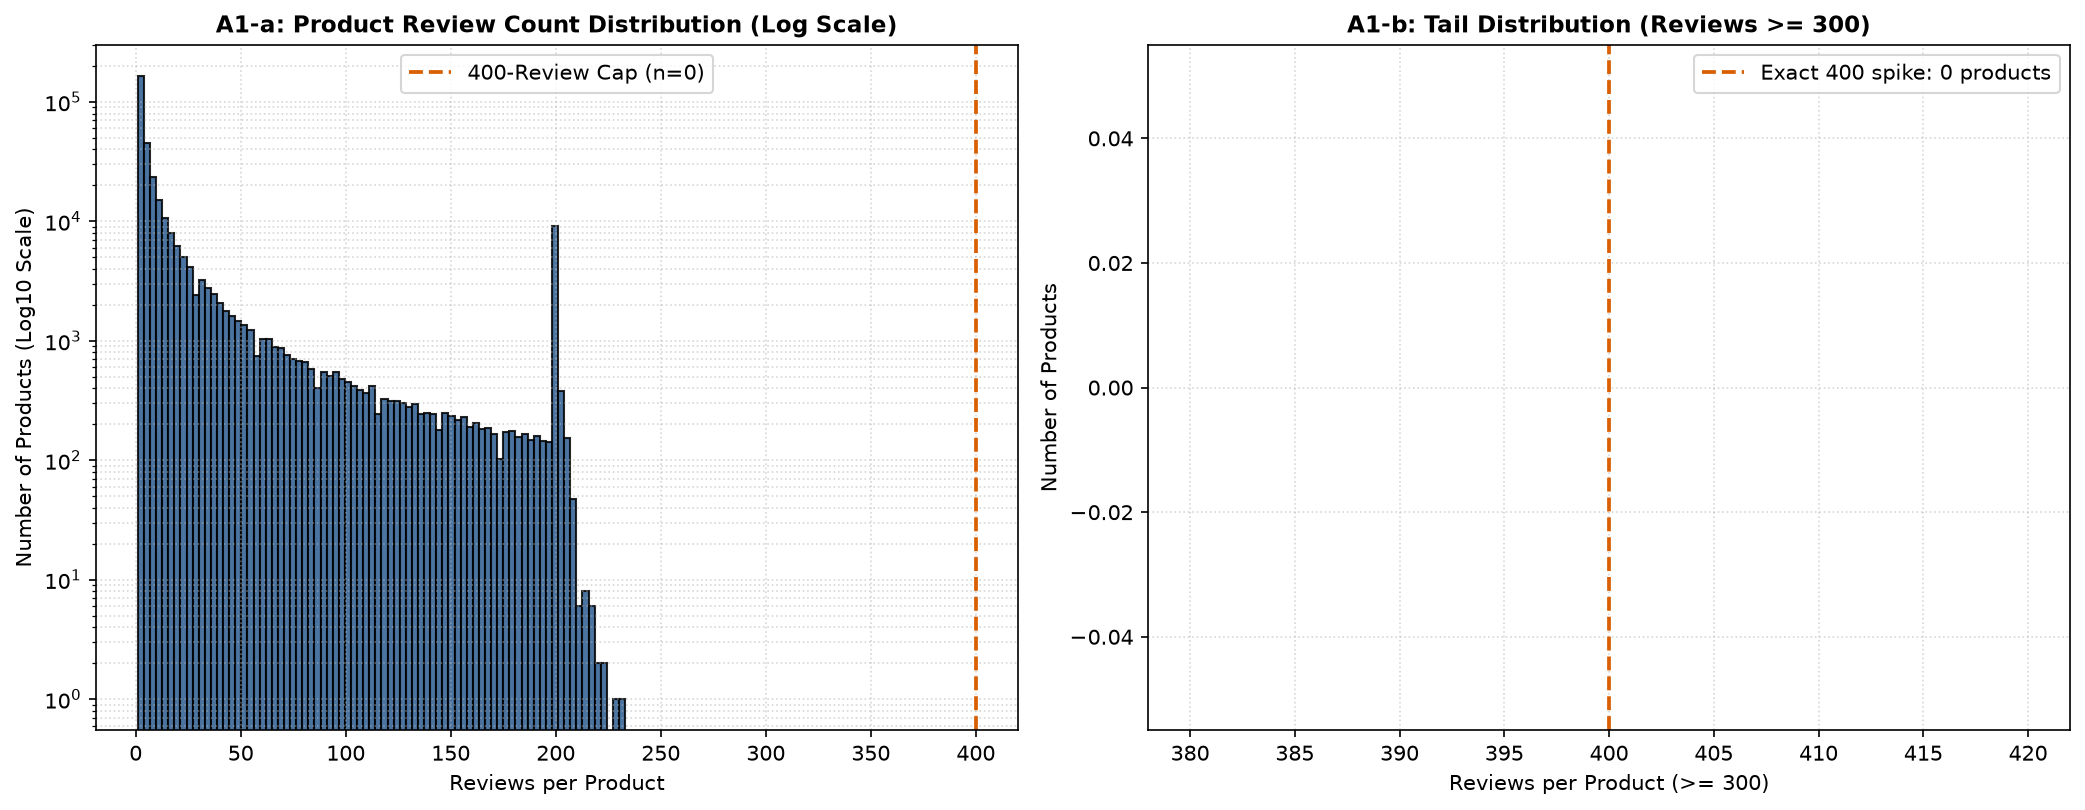
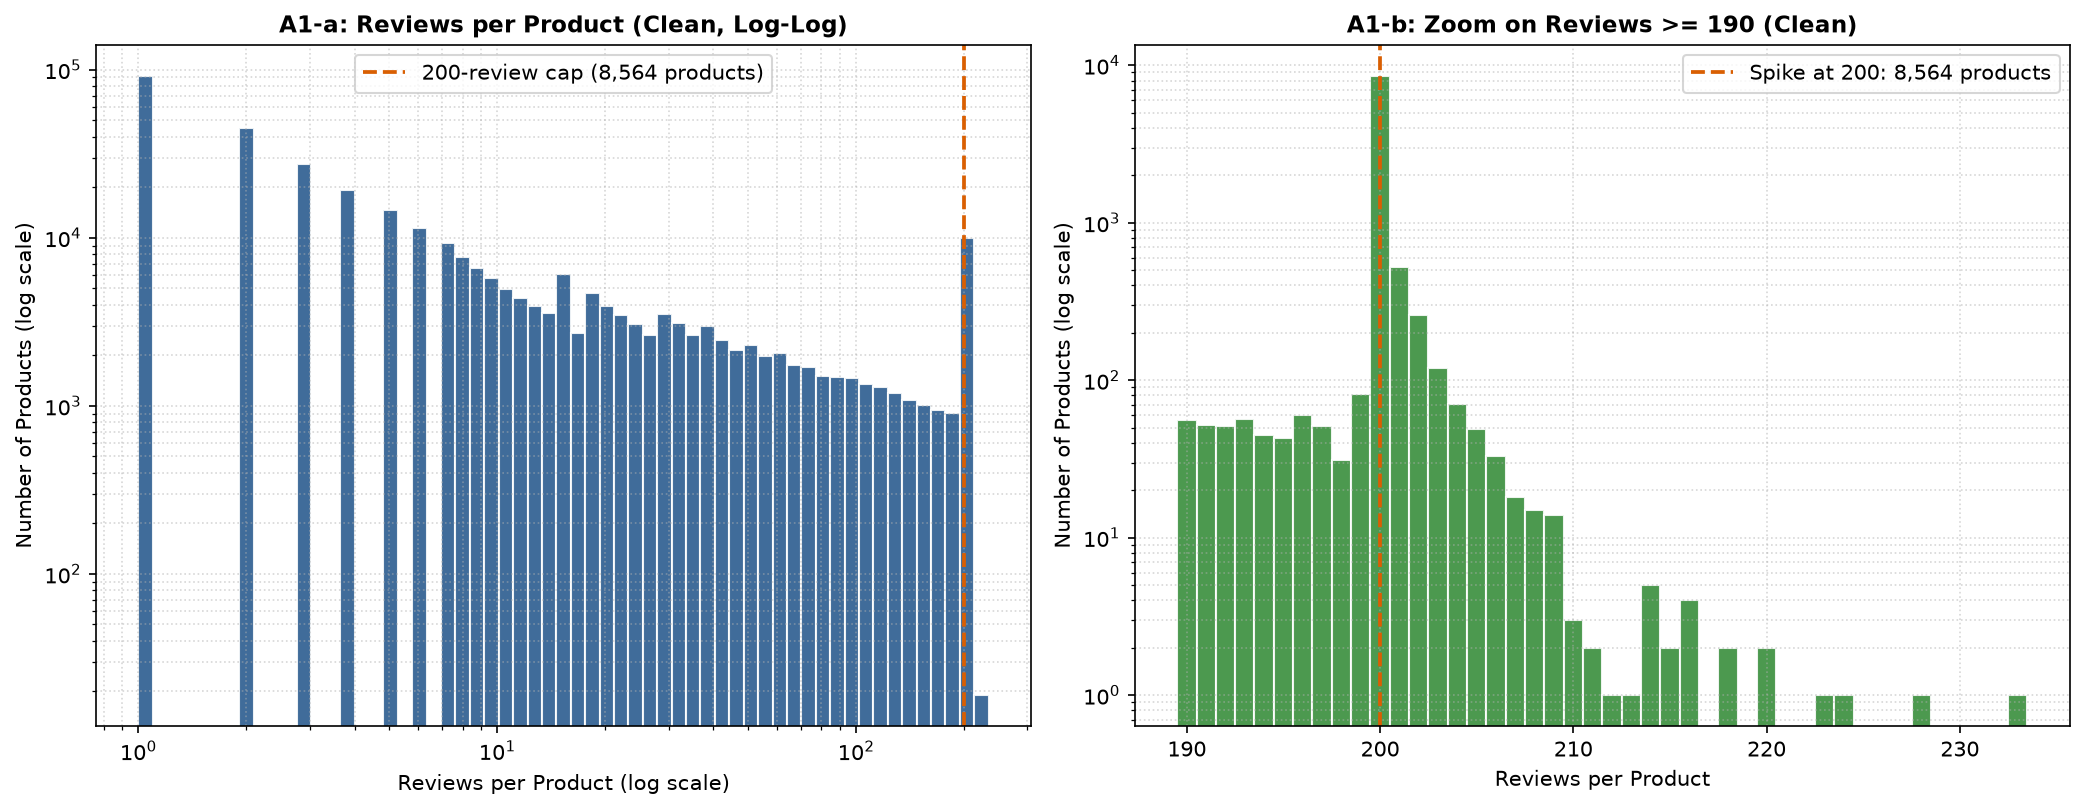
fix(eda): correct A1 cap analysis to 200 reviews after dedup audit

diff --git a/src/step_a1.py b/src/step_a1.py
@@ -1,17 +1,25 @@
 """
-Step A1: Product Review Distribution and 400-Review Cap Analysis on Clean Dataset.
-Reads data/interim/digikala_clean.parquet and saves plot to reports/figures/.
+Step A1: Product review distribution and 200-review cap analysis on the clean dataset.
+
+Finding from audit_verification.py: the raw 400-review products were products scraped
+twice (200 unique ids, each duplicated). After deduplication the real per-product cap
+is 200 reviews.
+
+Reads data/interim/digikala_clean.parquet, writes artifacts/eda/step_a1_product_dist.json
+and reports/figures/A1_product_review_distribution.png.
 """
 import json
 from pathlib import Path
 import matplotlib
 matplotlib.use("Agg")
 import matplotlib.pyplot as plt
+import numpy as np
 import polars as pl
 
 CLEAN_PARQUET = Path("data/interim/digikala_clean.parquet")
 OUTPUT_JSON = Path("artifacts/eda/step_a1_product_dist.json")
 OUTPUT_FIG = Path("reports/figures/A1_product_review_distribution.png")
+CAP = 200
 
 
 def run_step_a1() -> dict:
@@ -42,46 +50,66 @@ def run_step_a1() -> dict:
         pl.col("review_count").quantile(0.99).alias("p99"),
         pl.col("review_count").max().alias("max"),
         (pl.col("review_count") == 1).sum().alias("single_review_products"),
-        (pl.col("review_count") > 300).sum().alias("over_300_products"),
-        (pl.col("review_count").is_between(301, 350)).sum().alias("between_301_350_products"),
-        (pl.col("review_count").is_between(351, 399)).sum().alias("between_351_399_products"),
-        (pl.col("review_count") == 400).sum().alias("exact_400_products"),
-        (pl.col("review_count") > 400).sum().alias("over_400_products"),
+        (pl.col("review_count") < CAP).sum().alias("below_200_products"),
+        (pl.col("review_count") == CAP).sum().alias("exact_200_products"),
+        (pl.col("review_count") > CAP).sum().alias("over_200_products"),
+        (pl.col("review_count") >= CAP).sum().alias("at_least_200_products"),
     ]).to_dicts()[0]
 
-    top_spikes_ge_300 = (
-        prod_counts.filter(pl.col("review_count") >= 300)
+    reviews_in_ge_200 = int(
+        prod_counts.filter(pl.col("review_count") >= CAP)["review_count"].sum()
+    )
+    stats["reviews_in_products_ge_200"] = reviews_in_ge_200
+    stats["share_of_reviews_in_products_ge_200_pct"] = round(
+        reviews_in_ge_200 / total_clean_rows * 100, 2
+    )
+    stats["share_of_products_ge_200_pct"] = round(
+        stats["at_least_200_products"] / stats["unique_products"] * 100, 2
+    )
+
+    spikes_ge_190 = (
+        prod_counts.filter(pl.col("review_count") >= 190)
         .group_by("review_count")
         .len()
         .rename({"len": "num_products"})
-        .sort("num_products", descending=True)
-        .head(15)
+        .sort("review_count")
         .to_dicts()
     )
 
-    # Generate publication-quality two-panel figure
     counts_np = prod_counts["review_count"].to_numpy()
     fig, axes = plt.subplots(1, 2, figsize=(14, 5.5), dpi=150)
 
-    # Panel 1: Log-scale histogram of reviews per product
-    axes[0].hist(counts_np, bins=80, color="#2b5c8f", edgecolor="black", alpha=0.85)
+    # Panel 1: log-log histogram (log-spaced bins) of reviews per product
+    bins = np.logspace(0, np.log10(counts_np.max() + 1), 60)
+    axes[0].hist(counts_np, bins=bins, color="#2b5c8f", edgecolor="white", alpha=0.9)
+    axes[0].set_xscale("log")
     axes[0].set_yscale("log")
-    axes[0].axvline(400, color="#d95f02", linestyle="--", linewidth=1.8, label=f"400-Review Cap (n={stats['exact_400_products']:,})")
-    axes[0].set_title("A1-a: Product Review Count Distribution (Log Scale)", fontsize=11, fontweight="bold")
-    axes[0].set_xlabel("Reviews per Product")
-    axes[0].set_ylabel("Number of Products (Log10 Scale)")
+    axes[0].axvline(
+        CAP, color="#d95f02", linestyle="--", linewidth=1.8,
+        label=f"200-review cap ({stats['exact_200_products']:,} products)",
+    )
+    axes[0].set_title("A1-a: Reviews per Product (Clean, Log-Log)", fontsize=11, fontweight="bold")
+    axes[0].set_xlabel("Reviews per Product (log scale)")
+    axes[0].set_ylabel("Number of Products (log scale)")
     axes[0].legend()
     axes[0].grid(True, which="both", linestyle=":", alpha=0.5)
 
-    # Panel 2: Zoomed tail (300 to max) showing the spike at 400
-    tail_np = counts_np[counts_np >= 300]
-    axes[1].hist(tail_np, bins=range(300, int(stats["max"]) + 5, 2), color="#388e3c", edgecolor="black", alpha=0.85)
-    axes[1].axvline(400, color="#d95f02", linestyle="--", linewidth=1.8, label=f"Exact 400 spike: {stats['exact_400_products']:,} products")
-    axes[1].set_title("A1-b: Tail Distribution (Reviews >= 300)", fontsize=11, fontweight="bold")
-    axes[1].set_xlabel("Reviews per Product (>= 300)")
-    axes[1].set_ylabel("Number of Products")
+    # Panel 2: zoom 190..max, one integer bin per count, showing the spike at 200
+    tail_np = counts_np[counts_np >= 190]
+    axes[1].hist(
+        tail_np, bins=np.arange(189.5, stats["max"] + 1.5, 1),
+        color="#388e3c", edgecolor="white", alpha=0.9,
+    )
+    axes[1].set_yscale("log")
+    axes[1].axvline(
+        CAP, color="#d95f02", linestyle="--", linewidth=1.8,
+        label=f"Spike at 200: {stats['exact_200_products']:,} products",
+    )
+    axes[1].set_title("A1-b: Zoom on Reviews >= 190 (Clean)", fontsize=11, fontweight="bold")
+    axes[1].set_xlabel("Reviews per Product")
+    axes[1].set_ylabel("Number of Products (log scale)")
     axes[1].legend()
-    axes[1].grid(True, linestyle=":", alpha=0.5)
+    axes[1].grid(True, which="both", linestyle=":", alpha=0.5)
 
     plt.tight_layout()
     plt.savefig(OUTPUT_FIG, bbox_inches="tight")
@@ -91,18 +119,20 @@ def run_step_a1() -> dict:
         "source_parquet": str(CLEAN_PARQUET),
         "total_clean_rows": total_clean_rows,
         "null_product_id_rows": null_product_rows,
+        "cap_analyzed": CAP,
+        "note": "Raw 400-review products were scraped twice (200 unique ids each, all Category A); real cap after dedup is 200.",
         "clean_product_distribution": stats,
-        "top_count_spikes_ge_300": top_spikes_ge_300,
+        "counts_ge_190": spikes_ge_190,
         "figure_path": str(OUTPUT_FIG),
     }
-
     with open(OUTPUT_JSON, "w", encoding="utf-8") as f:
         json.dump(result, f, indent=2, ensure_ascii=False)
 
     print("=== STEP A1 (CLEAN DATASET) COMPLETE ===")
     print(f"Clean Rows: {total_clean_rows:,} | Unique Products: {stats['unique_products']:,}")
     print(f"Quantiles -> Min: {stats['min']}, P50: {stats['p50']}, P90: {stats['p90']}, P99: {stats['p99']}, Max: {stats['max']}")
-    print(f"Tail (>300) -> 301..350: {stats['between_301_350_products']:,}, 351..399: {stats['between_351_399_products']:,}, Exact 400: {stats['exact_400_products']:,}, >400: {stats['over_400_products']:,}")
+    print(f"Cap 200 -> exact 200: {stats['exact_200_products']:,} | >200: {stats['over_200_products']:,} | >=200: {stats['at_least_200_products']:,} ({stats['share_of_products_ge_200_pct']}% of products)")
+    print(f"Reviews in products >=200: {reviews_in_ge_200:,} ({stats['share_of_reviews_in_products_ge_200_pct']}% of all reviews)")
     print(f"Saved plot to: {OUTPUT_FIG}")
     return result
 
